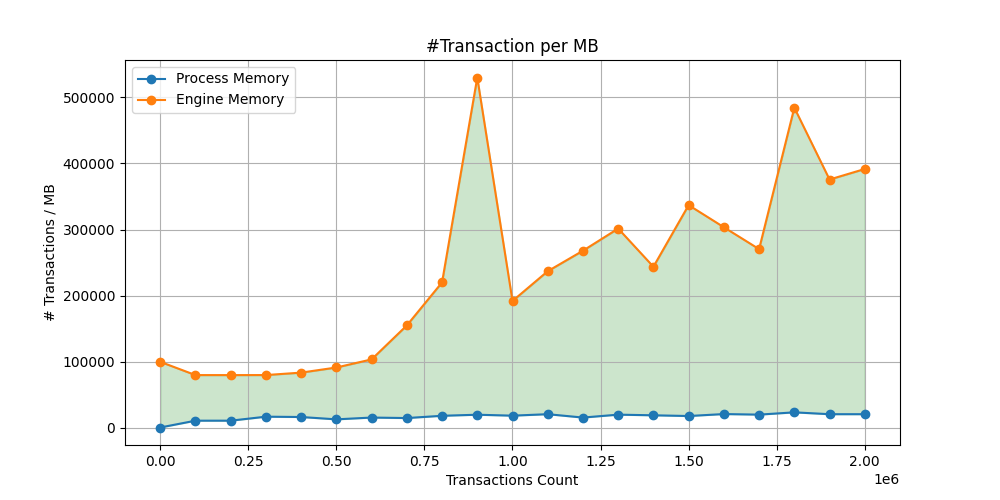
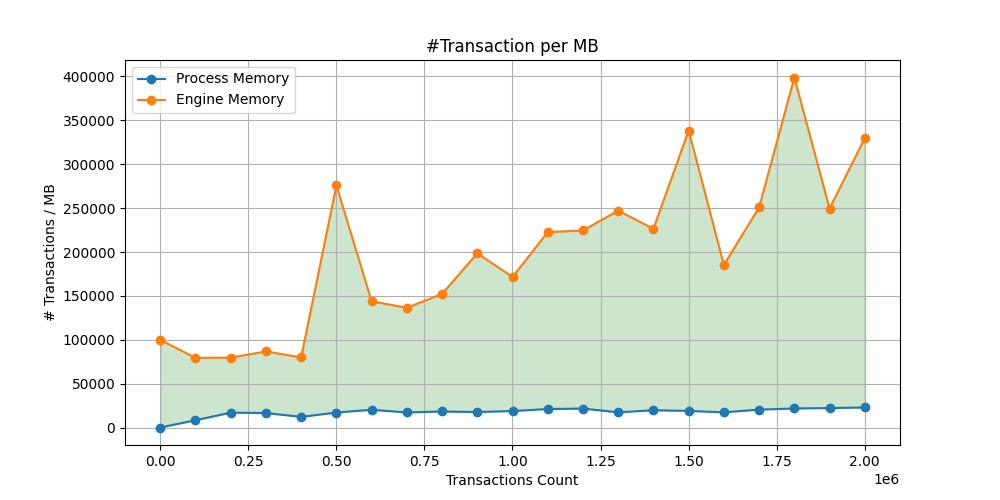
small bug fix on stress-test mode. Readme and pics udpated.

diff --git a/src/main.rs b/src/main.rs
@@ -98,15 +98,15 @@ fn process_normal(
 /// - The temporary file is automatically deleted when the function returns.
 /// - The performance metrics are printed to stderr.
 fn process_stress_test(num_transactions: usize) -> Result<(), Box<dyn std::error::Error>> {
-    let mut engine = Engine::default();
-    let start_time = Instant::now();
-    let mut system = System::new_all();
-    let start_memory = get_current_memory(&mut system);
-
     // Use NamedTempFile for automatic cleanup
     // The temporary file is automatically deleted when temp_file goes out of scope
     let temp_file = NamedTempFile::new()?;
     generate_random_transactions(num_transactions, &temp_file)?;
+
+    let mut engine = Engine::default();
+    let start_time = Instant::now();
+    let mut system = System::new_all();
+    let start_memory = get_current_memory(&mut system);
 
     // Process transactions directly from the temporary file
     // Error are not printed on the stderr during the stress test as it may affect the performance of the engine

diff --git a/Readme.md b/Readme.md
@@ -364,27 +364,27 @@ The `generate_random_transactions` function is used by the `stress-test` mode of
 
   ```
   Transactions Count   Time                 Process Memory (MB)  Engine Memory (MB)  
-  100                  9.949375ms           0.141                0.001               
-  100100               110.298375ms         9.078                1.252               
-  200100               202.647959ms         18.156               2.504               
-  300100               308.25525ms          17.578               3.752               
-  400100               401.858917ms         24.156               4.782               
-  500100               503.560583ms         38.375               5.471               
-  600100               634.479958ms         38.109               5.790               
-  700100               742.610458ms         46.703               4.517               
-  800100               856.854917ms         43.438               3.636               
-  900100               997.829041ms         44.938               1.699               
-  1000100              1.105896042s         53.766               5.209               
-  1100100              1.202280958s         52.812               4.642               
-  1200100              1.338591125s         76.266               4.479               
-  1300100              1.48892125s          64.578               4.313               
-  1400100              1.610724209s         73.094               5.745               
-  1500100              1.736744167s         83.031               4.453               
-  1600100              1.853796375s         76.062               5.273               
-  1700100              1.9928745s           84.266               6.289               
-  1800100              2.1047665s           76.203               3.718               
-  1900100              2.179973s            91.250               5.059               
-  2000100              2.275930042s         96.062               5.109                       
+  100                  12.87825ms           0.391                0.001               
+  100100               79.222833ms          11.719               1.258               
+  200100               145.160667ms         11.656               2.509               
+  300100               212.871209ms         17.938               3.452               
+  400100               285.000875ms         32.422               4.999               
+  500100               385.176666ms         28.891               1.813               
+  600100               456.288333ms         29.328               4.168               
+  700100               526.671791ms         40.297               5.125               
+  800100               645.112125ms         43.281               5.254               
+  900100               743.275667ms         50.375               4.533               
+  1000100              798.600791ms         52.625               5.826               
+  1100100              864.674375ms         51.656               4.940               
+  1200100              956.779917ms         55.047               5.343               
+  1300100              1.024538625s         74.219               5.261               
+  1400100              1.181045458s         70.375               6.182               
+  1500100              1.227557875s         78.234               4.434               
+  1600100              1.310450292s         91.406               8.635               
+  1700100              1.3783415s           82.422               6.778               
+  1800100              1.469251375s         82.172               4.515               
+  1900100              1.677349042s         84.812               7.616               
+  2000100              1.705031125s         86.844               6.066                       
           
   ```
   ***[on Mac-Book-Air M3 24 Gb in a VSCode terminal window]***<br><br>
@@ -394,8 +394,9 @@ The `generate_random_transactions` function is used by the `stress-test` mode of
   <img src="./img/memory_vs_transactions_ratios.png" width="500">
 
 Note: The `generate_random_transactions` function is not meant to mimic real-world transactions since it generates random transactions without any ordering or dependencies. This results in a <b>higher number of error conditions</b> compared to real-world use cases and as a consequence the number of entry in both the `transaction_log` and `account` maps will be lower than real world use case. But it is good enough to see how the system resources are used increasing the size of the input, especially to check if there is a trend that is not coeherent with the complexity analysis. `generate_random_transaction_concurrent_stream` would provide a transactions stream closer to the real world use case, but has it has an internal state that would affect the process memory footprint.
+The best approach would be to generate the transactions offline and process them with `txn_engine`, but we kept the transaction generation in-process for simplicity.
 
-In reference to the above table, the performance of txn_engine, on the aforementioned assumption, on this machine is ~`1.000.000 transactions/s` with an average `~[17.000 (Process Memory) - 230.000 (Engine Memory)] transactions/MB` memory impact on the user account/transaction log storage.
+In reference to the above table, the performance of txn_engine, on the aforementioned assumption, on this machine is ~`1.200.000 transactions/s` with an average `~[17.000 (Process Memory) - 200.000 (Engine Memory)] transactions/MB` memory impact on the user account/transaction log storage.
 The plots also show that both time and memory scale as O(n).
 
 ### Notes & Comments
@@ -423,6 +424,7 @@ The plots also show that both time and memory scale as O(n).
   - 200 x 30 days  = 6.000 transactions per client per period have to be stored
   - 1B / 6.000 =  166.666 = ~166.000 (for simplicity) clients per machine.
   - We can add a node increasing throughput and without sacrificing latency, e.g.: a farm with 100 64Gb nodes can manage 16.6 M clients.
+  - NOTE: `pub type ClientId = u16` should be moved to `u32` or `u64` as `u16` can only represent 65536 clients.
 
 - The solution scales vertically as follows
   - increase the node memory will allow to manage more clients per node. e.g.: 256 Gb memory will allow to manage 16.6 x 4 =~ 66 M clients (which is in line with the # of customers of biggest retail banks on earth)
